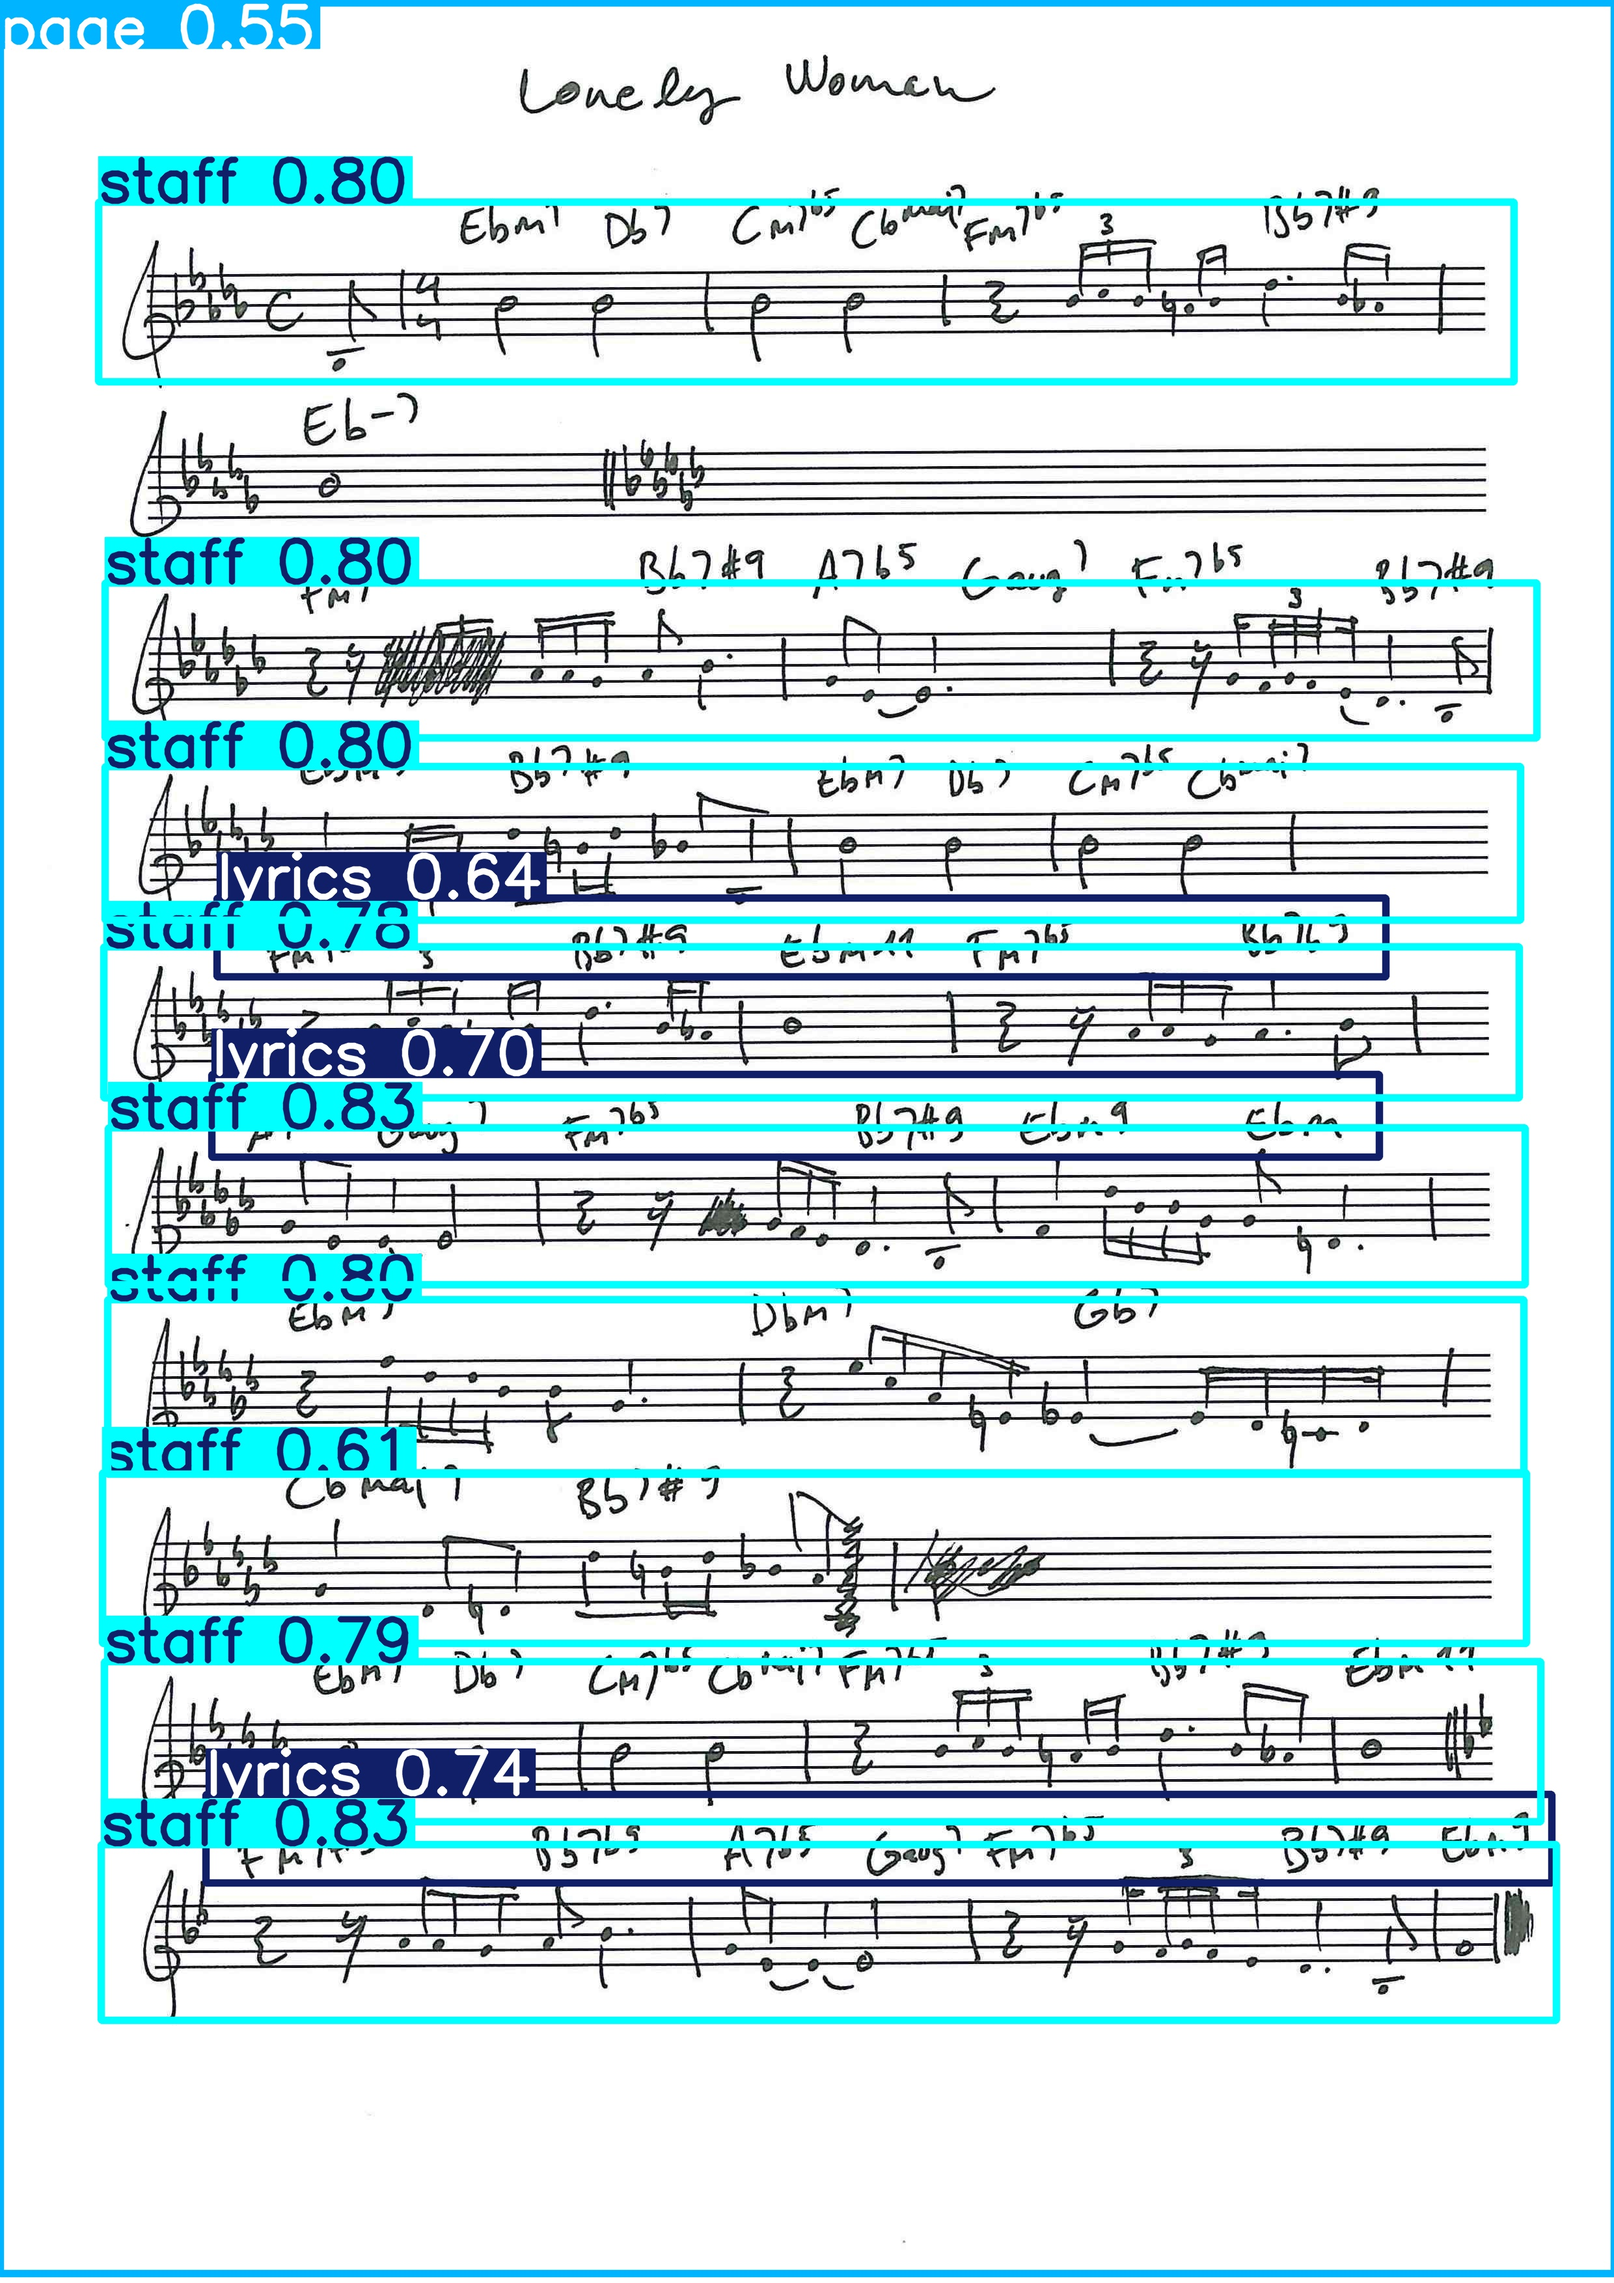
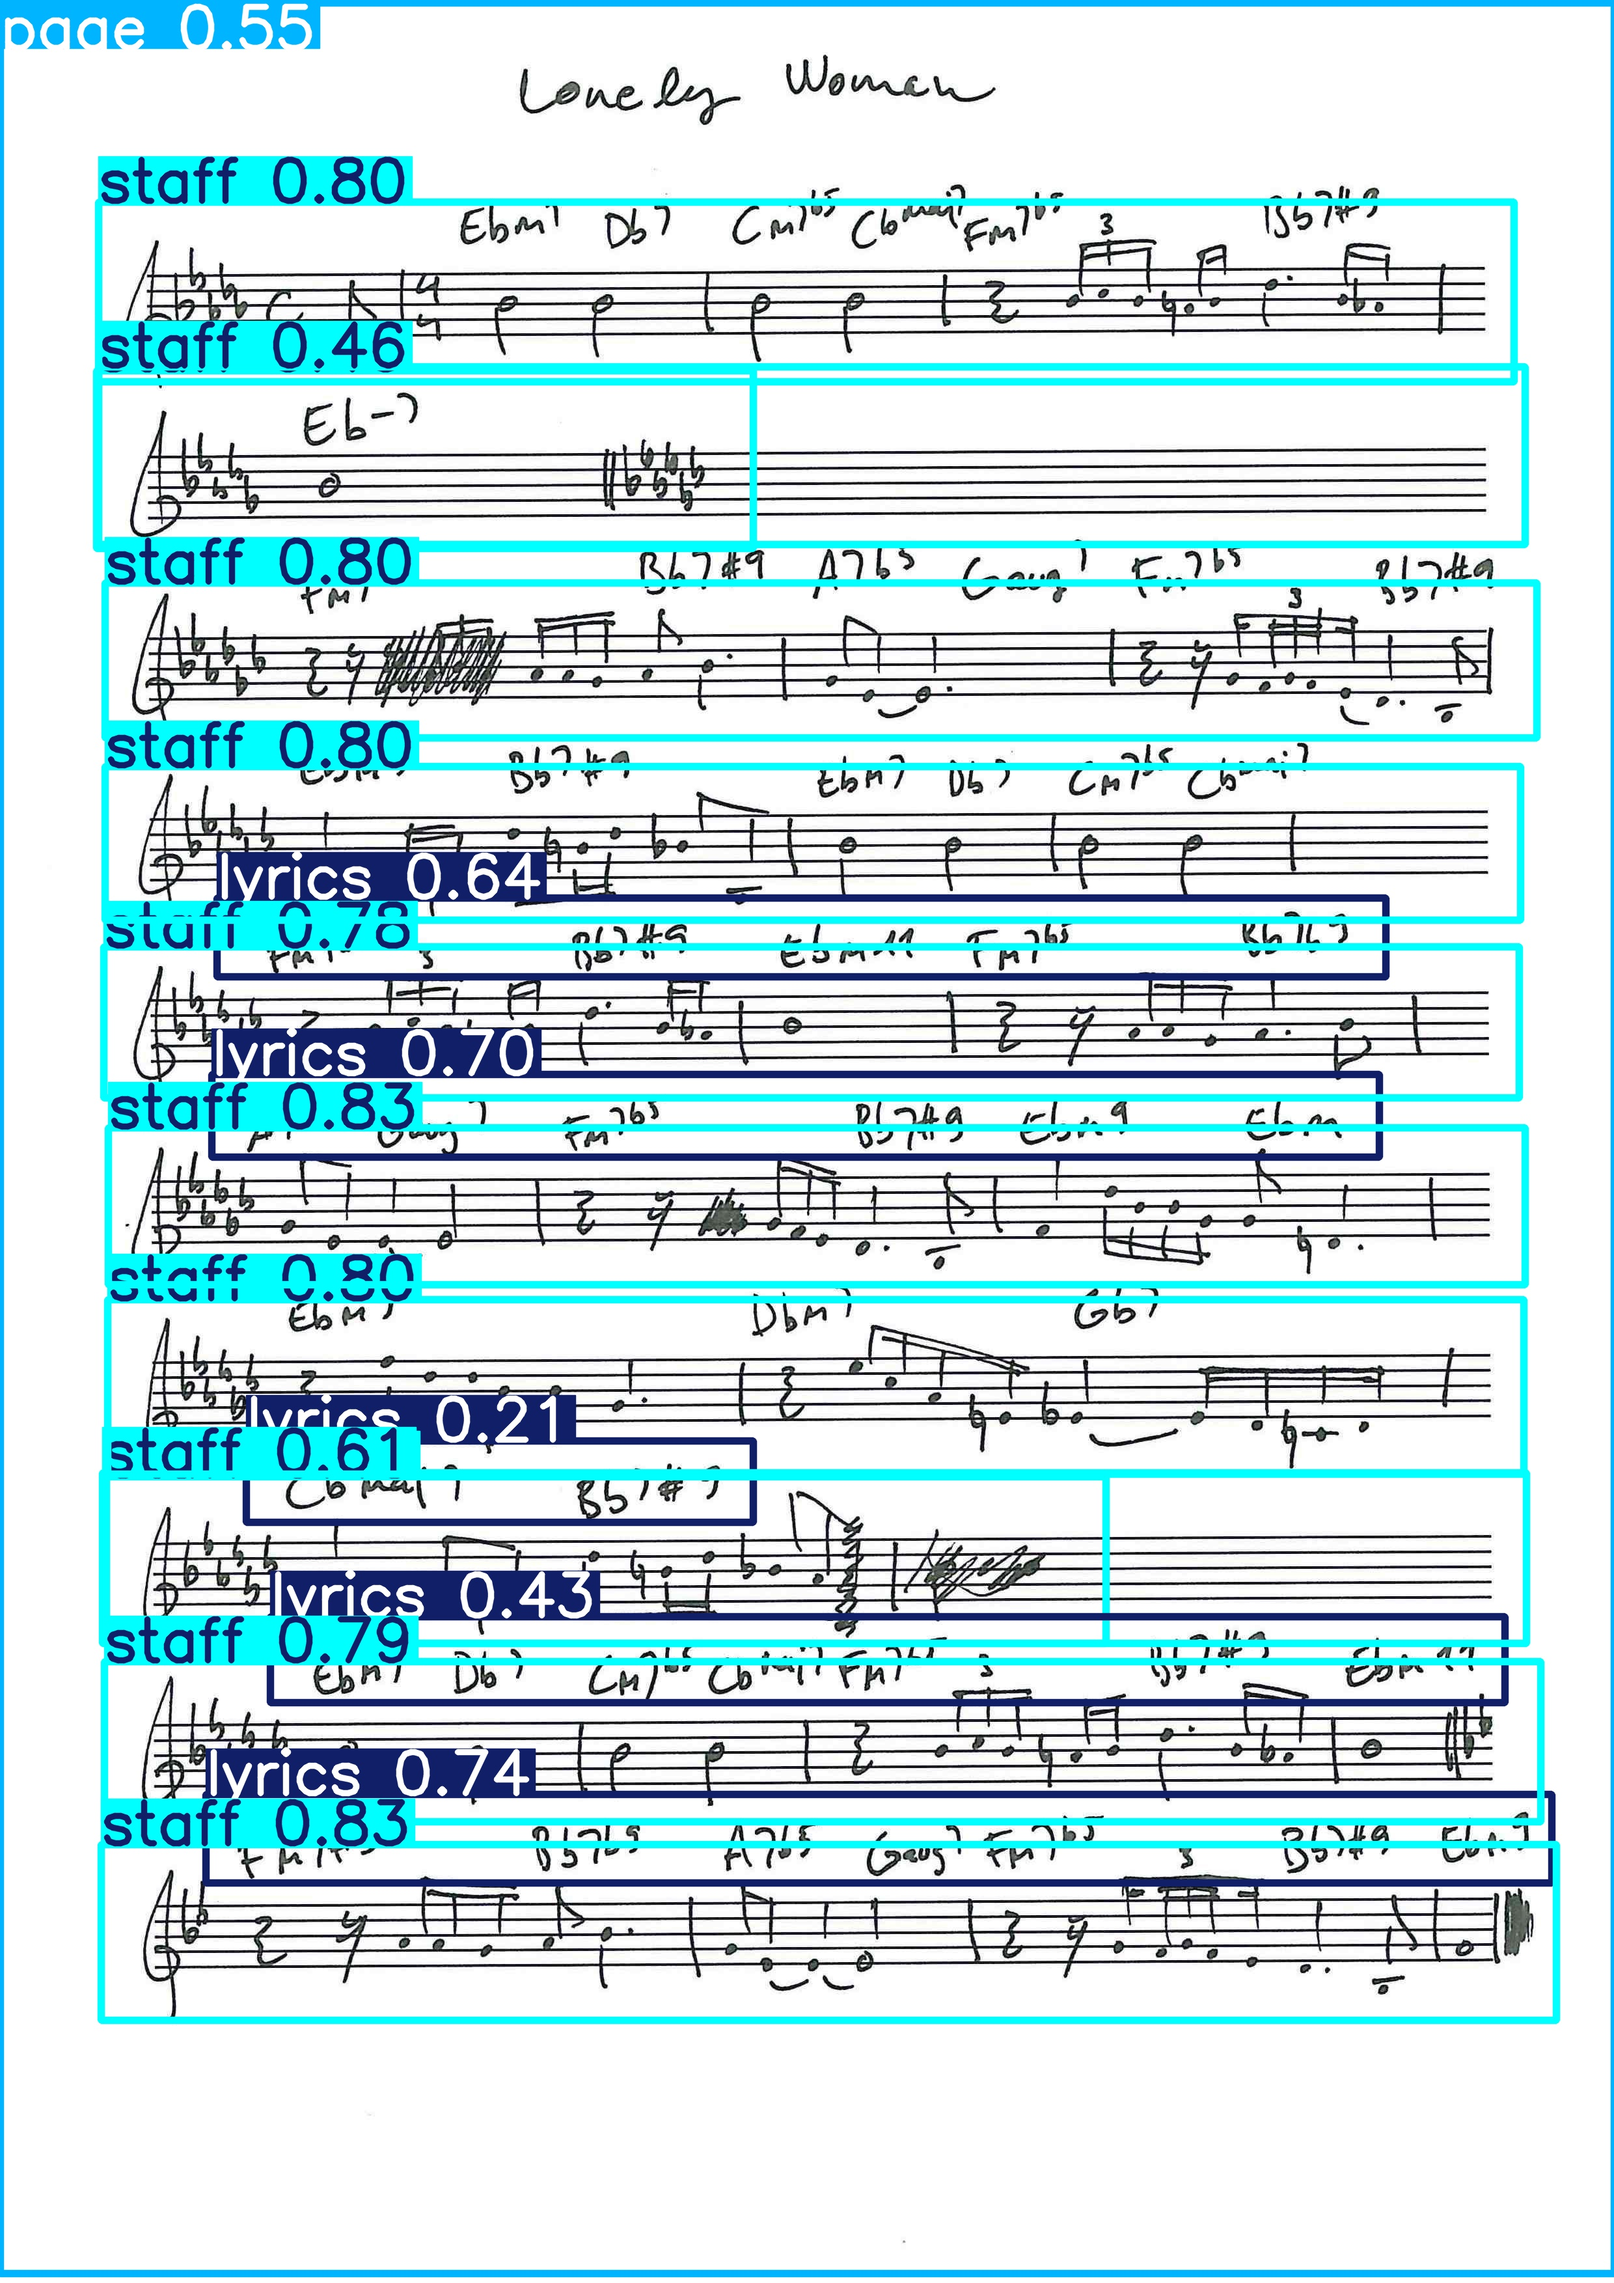
eval

Changed region(s): [[0.031, 0.1243, 0.9625, 0.2486], [0.1552, 0.5905, 0.9315, 0.7459], [0.0621, 0.6527, 0.0931, 0.6838]]

diff --git a/system_level_evaluation.py b/system_level_evaluation.py
@@ -147,7 +147,7 @@ def save_yolo_visualization(
     image_path: str,
     yolo_model_path: str,
     output_path: str,
-    confidence_threshold: float = 0.5
+    confidence_threshold: float = 0.2
 ):
     """
     Save visualization of YOLO bounding boxes on the original image.
@@ -216,7 +216,7 @@ def run_system_level_evaluation(
             yolo_crops = segment_staves(
                 image_path=img_path,
                 yolo_model_path=yolo_model_path,
-                confidence_threshold=0.3
+                confidence_threshold=0.2
             )
 
             # Step 2: Extract GT systems

diff --git a/full_page_baseline.py b/full_page_baseline.py
@@ -59,8 +59,8 @@ def segment_staves(
     #extend top and bottom of each box by 10 pixels
     extended_staff_boxes = []
     for y_center, (x1, y1, x2, y2) in staff_boxes:
-        extended_y1 = max(0, y1 - 60)
-        extended_y2 = min(image.height, y2 + 60)
+        extended_y1 = max(0, y1 - 30)
+        extended_y2 = min(image.height, y2 + 30)
         extended_staff_boxes.append((y_center, (x1, extended_y1, x2, extended_y2)))
     staff_boxes = extended_staff_boxes
 
